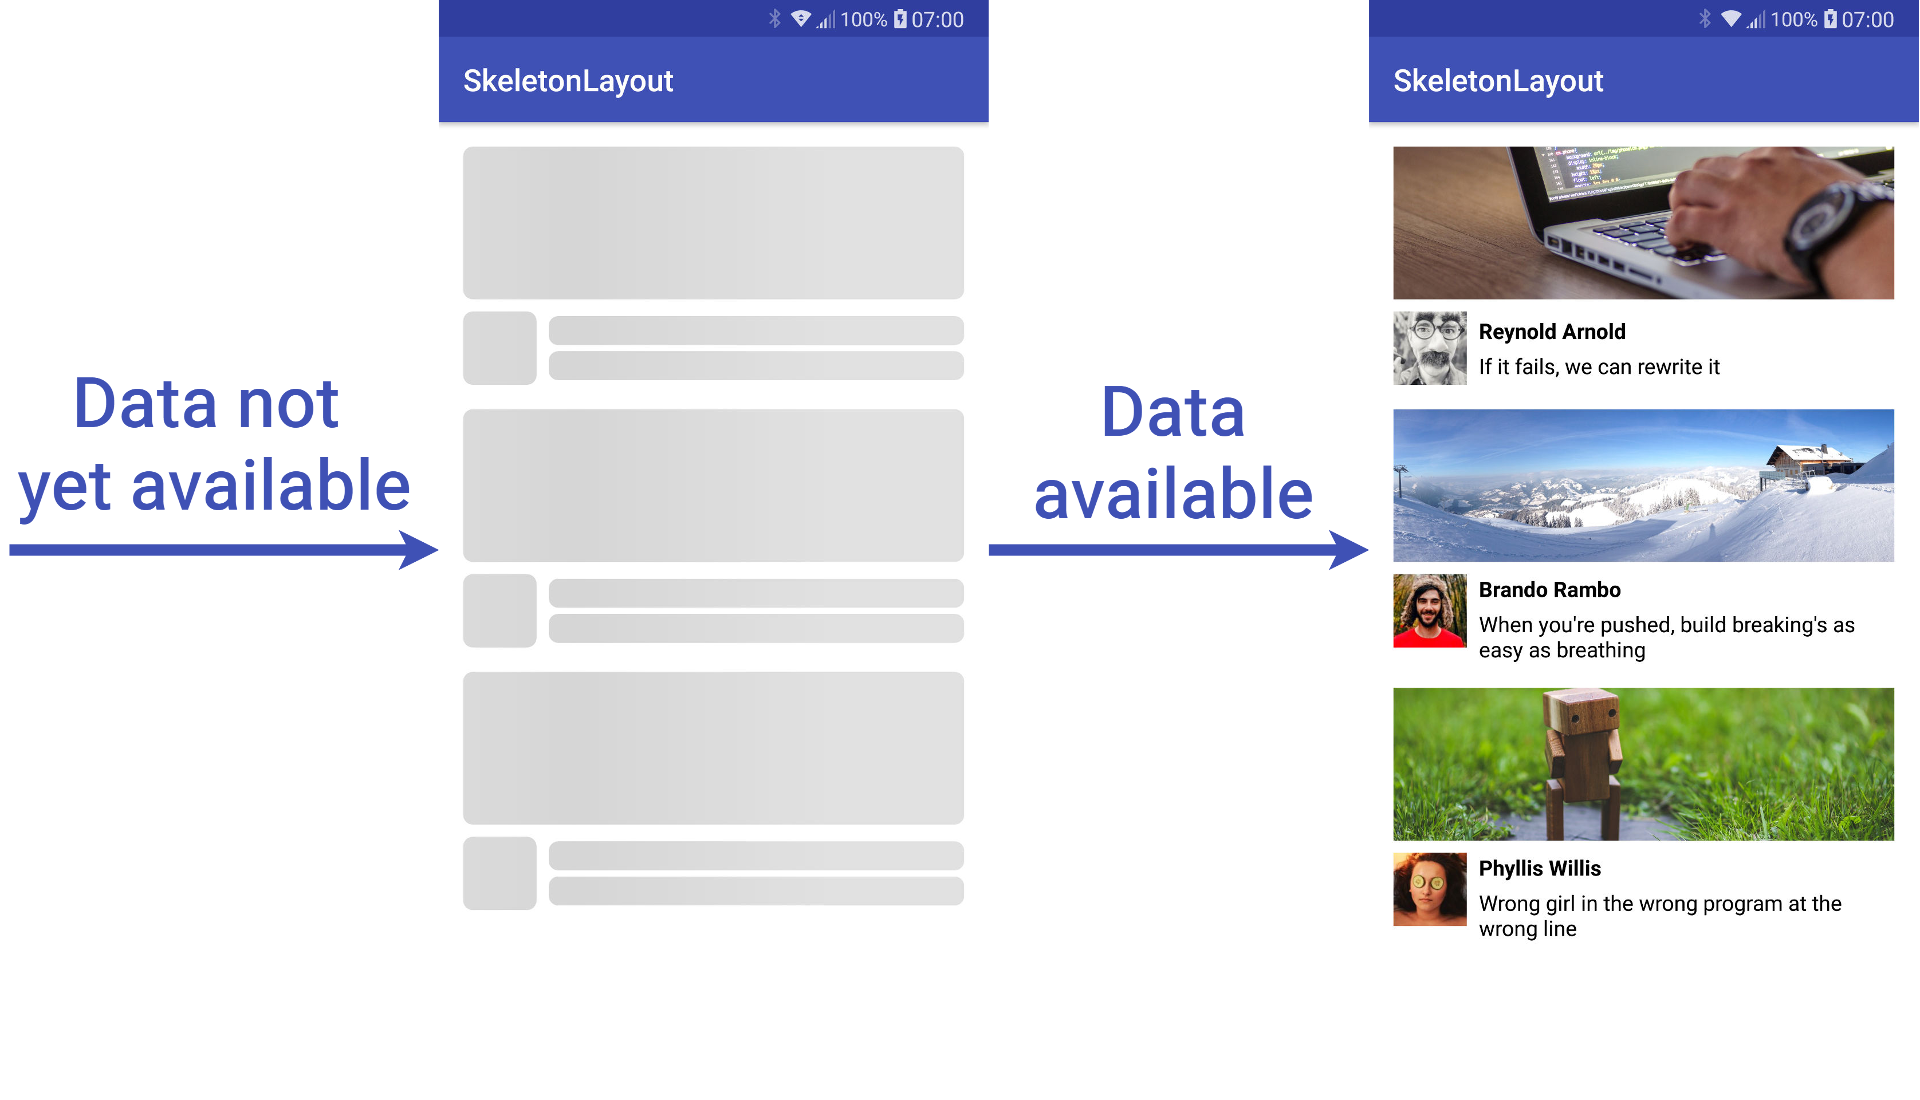
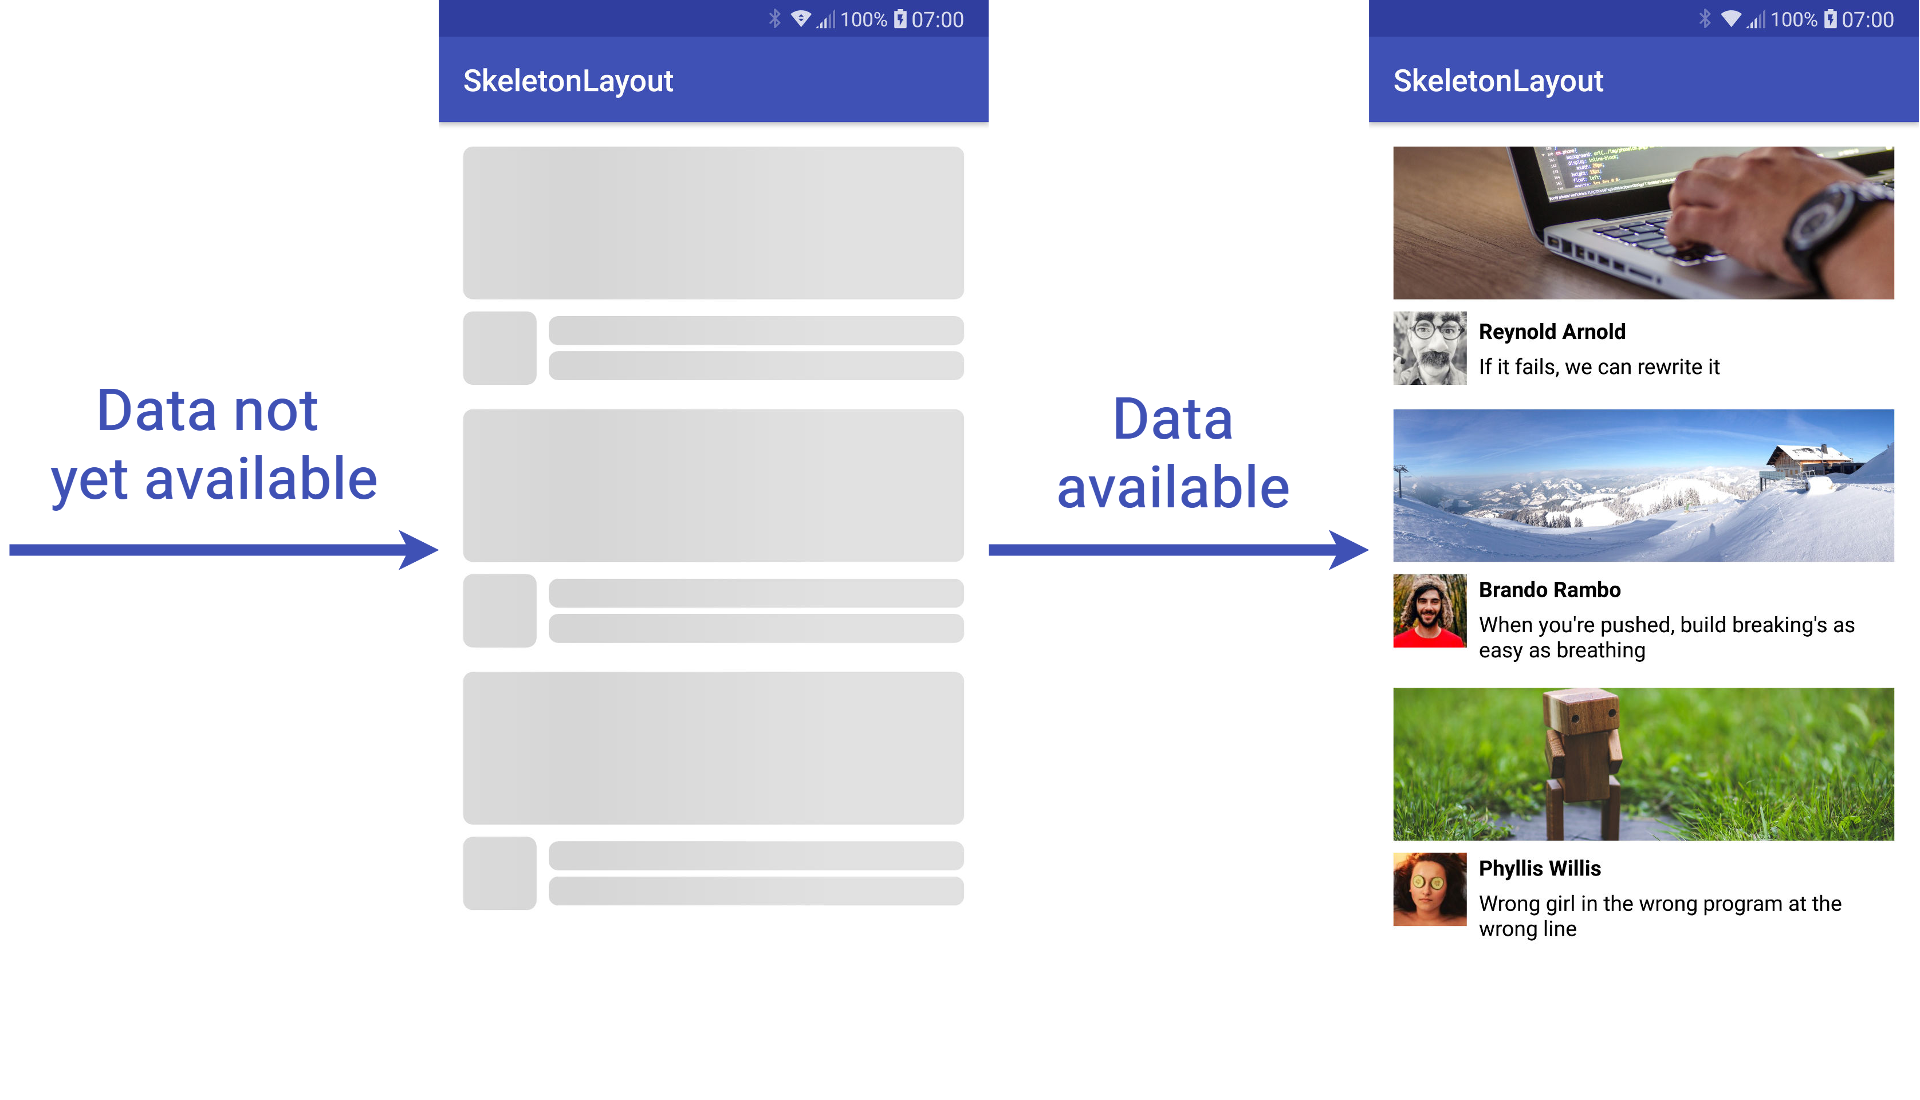
Updated readme

Changed region(s): [[0.0, 0.34, 0.2188, 0.4636], [0.5312, 0.34, 0.6875, 0.4945]]

diff --git a/README.md b/README.md
@@ -16,7 +16,7 @@ This library implements the Skeleton View pattern and provides an easy way for o
 
 ## Preview
 
-<img src="./images/preview.png" width="500">
+<img src="./images/preview.png" width="600">
 
 The SkeletonLayout mimics the design of established implementations per default, but you are free to get creative. 
 Create your own skeleton view with custom shapes, colors and shimmers.
